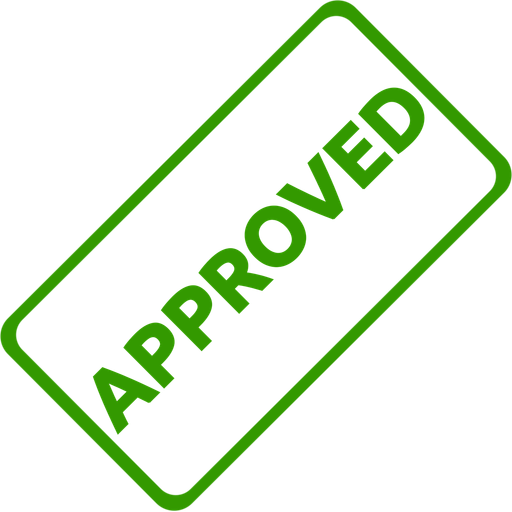
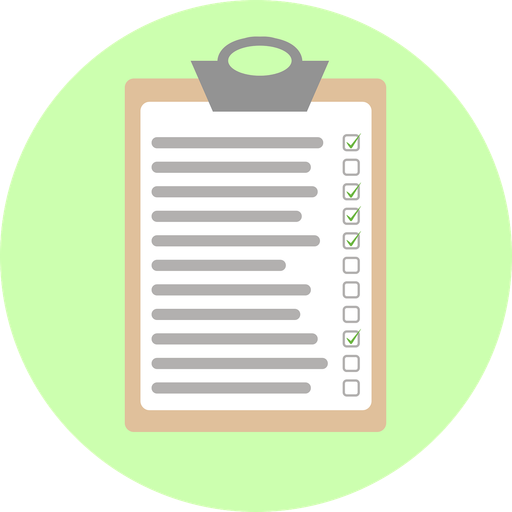
chore: update why-us credits and card image

diff --git a/.commandcode/taste/workflow/taste.md b/.commandcode/taste/workflow/taste.md
@@ -26,7 +26,7 @@
 - Commissioned site audits are analysis-only by design: the user asks to start with the analysis and report what is wrong, deliberately deferring fixes to a later session or another AI — deliver the audit report without implementing fixes mid-analysis, then offer next steps (writing the report to a file, starting fixes) for confirmation. Confidence: 0.65
 - Audit reports must be concrete and independently verifiable: findings delivered as a table keyed by stable IDs (P1, S1, SEC1, B1, F1, Q1, D1…), each with a file:line reference, severity, and a specific fix, plus a prioritized shortlist of top actions (e.g. top-5 for speed, top-5 for Google #1) — so another AI can re-check the findings in a separate session. Confidence: 0.7
   ne: starting Docker Desktop via PowerShell, starting/stopping containers, running DB migrations, and inspecting container/table state to unblock a build. Confidence: 0.5
-- Expects completed work to be committed AND pushed to the remote (GitHub) as part of finishing a task — explicitly instructs "və sonda push edirsən" (and at the end you push) and "sonda ugurlu olarsa push eliyersen" (if successful, push at the end), follows up with "push eledin?" / "push elemisen?" (did you push?) when work was left uncommitted/unpushed, and expects a confirmation that local and origin/main are in sync; when the user knows unrelated changes are still pending ("deyisiklik var onlarida push ele" — there are changes, push them too), expects those too to be found, committed and pushed rather than left behind in the working tree. Confidence: 0.95
+- Expects completed work to be committed AND pushed to the remote (GitHub) as part of finishing a task — explicitly instructs "və sonda push edirsən" (and at the end you push) and "sonda ugurlu olarsa push eliyersen" (if successful, push at the end), follows up with "push eledin?" / "push elemisen?" (did you push?) when work was left uncommitted/unpushed, and expects a confirmation that local and origin/main are in sync; when the user knows unrelated changes are still pending ("deyisiklik var onlarida push ele" — there are changes, push them too), expects those too to be found, committed and pushed rather than left behind in the working tree (restated again as "deyisikleri push ele" — push the changes — when a large batch of pending work exists). Confidence: 0.97
 - When the user explicitly narrows scope ("sadece X et, başqa heç nəyi dəyişmə" — just do X, don't change anything else yet), respect that boundary: make only the requested change and defer adjacent/related work (even work the user mentioned earlier, e.g. a Dormitory badge rename) for explicit confirmation instead of folding it into the same pass. Confidence: 0.7
 - When a reported UI bug (e.g. mobile hamburger menu missing items) cannot be confirmed from static code and translations alone, prefers verifying against the real rendered page (starting a production server on a spare port and fetching HTML) rather than blindly rewriting the component; when the underlying cause still isn't reproducible, resorts to a deterministic rewrite that guarantees the desired behavior (explicit links instead of a data-driven map). Confidence: 0.5
 - Mobile navigation/overlay fixes iterate through the same UI until it matches the reference site (StudyLeo): after explicit links and then a full-screen overlay ("tam ekran overlay"), the user pasted StudyLeo's drawer HTML and rejected the full-screen version ("bizde bele deyil") — the hamburger menu must now open as a right-side full-height drawer with a dark overlay behind it (clicking the overlay closes it), body scroll locked while open, and all menu items comfortably visible ("hamburger duymesine basanda sag terefde tam ekran boyunca acilsin"); this right-side-drawer style supersedes the earlier full-screen overlay, so new menu/panel reworks should follow the reference site's latest pattern. Confidence: 0.8

diff --git a/public/images/CREDITS.md b/public/images/CREDITS.md
@@ -123,7 +123,7 @@ stored locally so the site does not depend on any remote CDN.
 - `card-2.png` — "Student Laptop" illustration — https://pixabay.com/illustrations/student-laptop-5608074/ (https://cdn.pixabay.com/photo/2020/09/27/22/40/student-5608074_1280.png)
 - `card-3.png` — "Graduation Graduate" illustration — https://pixabay.com/illustrations/graduation-graduate-8910504/ (https://cdn.pixabay.com/photo/2024/07/21/14/55/graduation-8910504_1280.png)
 - `card-4.png` — "Coins Money" illustration — https://pixabay.com/vectors/coins-money-145386/ (https://cdn.pixabay.com/photo/2013/07/12/12/14/euro-145386_1280.png)
-- `card-5.png` — "Approved" stamp illustration — https://pixabay.com/vectors/approved-160120/ (https://cdn.pixabay.com/photo/2013/07/13/12/41/approved-160120_1280.png)
+- `card-5.png` — "Checklist" clipboard illustration — https://pixabay.com/vectors/checklist-2023731/ (https://cdn.pixabay.com/photo/2017/01/31/11/48/checklist-2023731_1280.png)
 - `card-6.png` — "Gift Present" illustration — https://pixabay.com/illustrations/gift-present-8417095/ (https://cdn.pixabay.com/photo/2023/11/28/10/18/gift-8417095_1280.png)
 
 Downloaded from **Pixabay** (https://pixabay.com) under the
